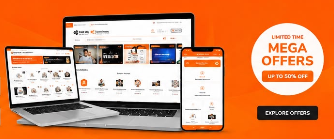
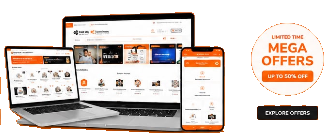
Transparentize all orange background pixels in the combined hero image to dissolve into the diagonal gradient background completely

diff --git a/src/components/Hero.jsx b/src/components/Hero.jsx
@@ -219,15 +219,14 @@ export default function Hero({ onSearch, onExploreOffers }) {
         {/* Column 2 (Right): Combined Mockup & Badge Image */}
         <div style={{ position: 'relative', width: '100%', height: '100%', display: 'flex', alignItems: 'center', justifyContent: 'center', zIndex: 2 }}>
           <img 
-            src="/hero-combined.png?v=2" 
+            src="/hero-combined.png?v=3" 
             alt="Hero Showcase" 
             style={{
               maxHeight: '215px',
               width: '100%',
               height: 'auto',
               objectFit: 'contain',
-              pointerEvents: 'none',
-              clipPath: 'inset(1px 0px 0px 0px)'
+              pointerEvents: 'none'
             }}
           />
           {/* Clickable hotspot overlay on the badge button */}